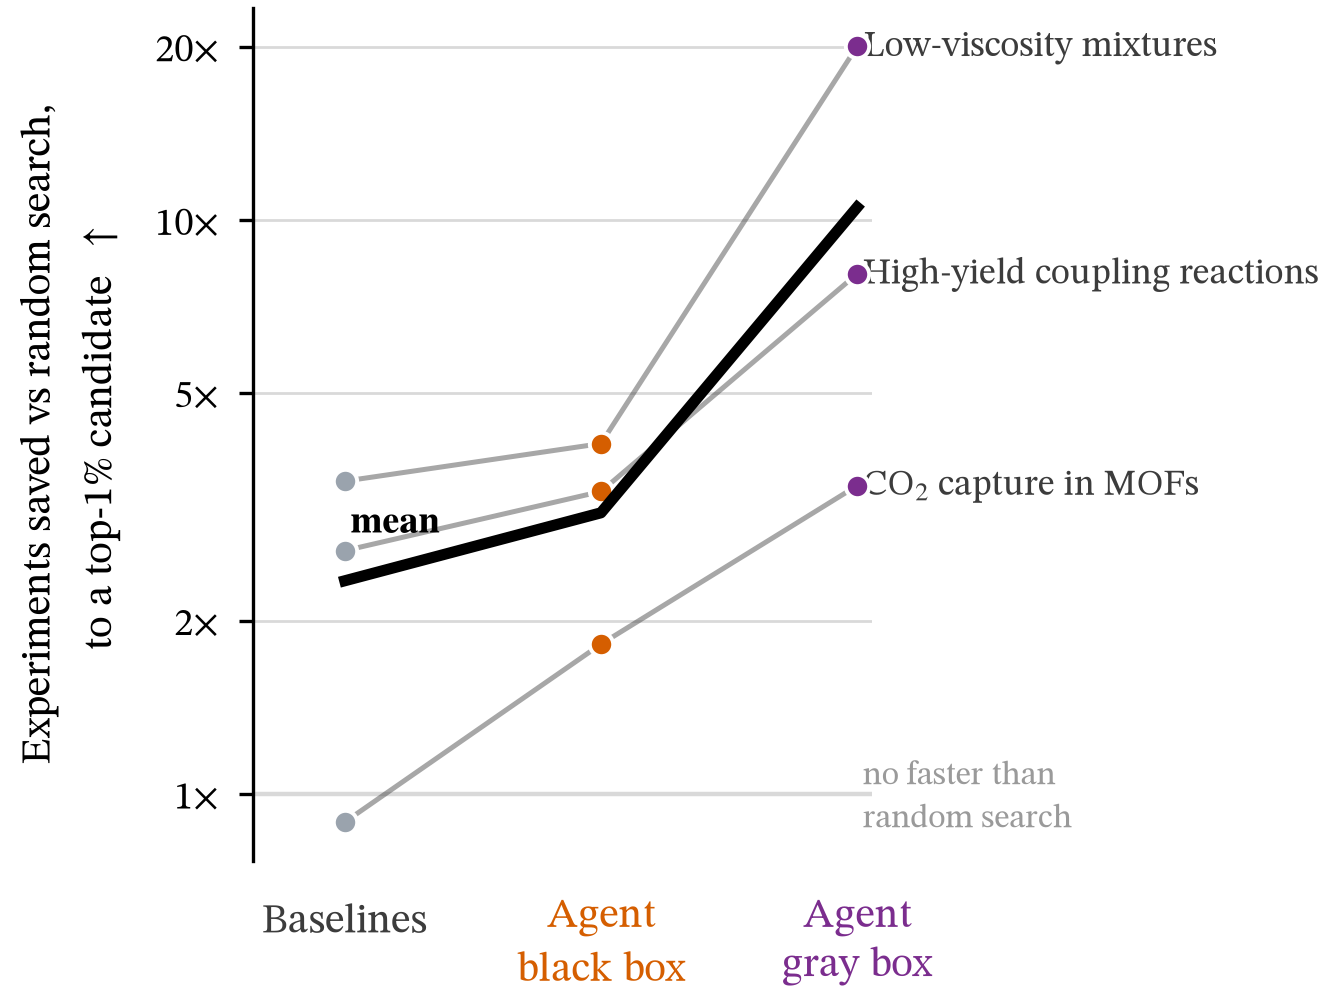
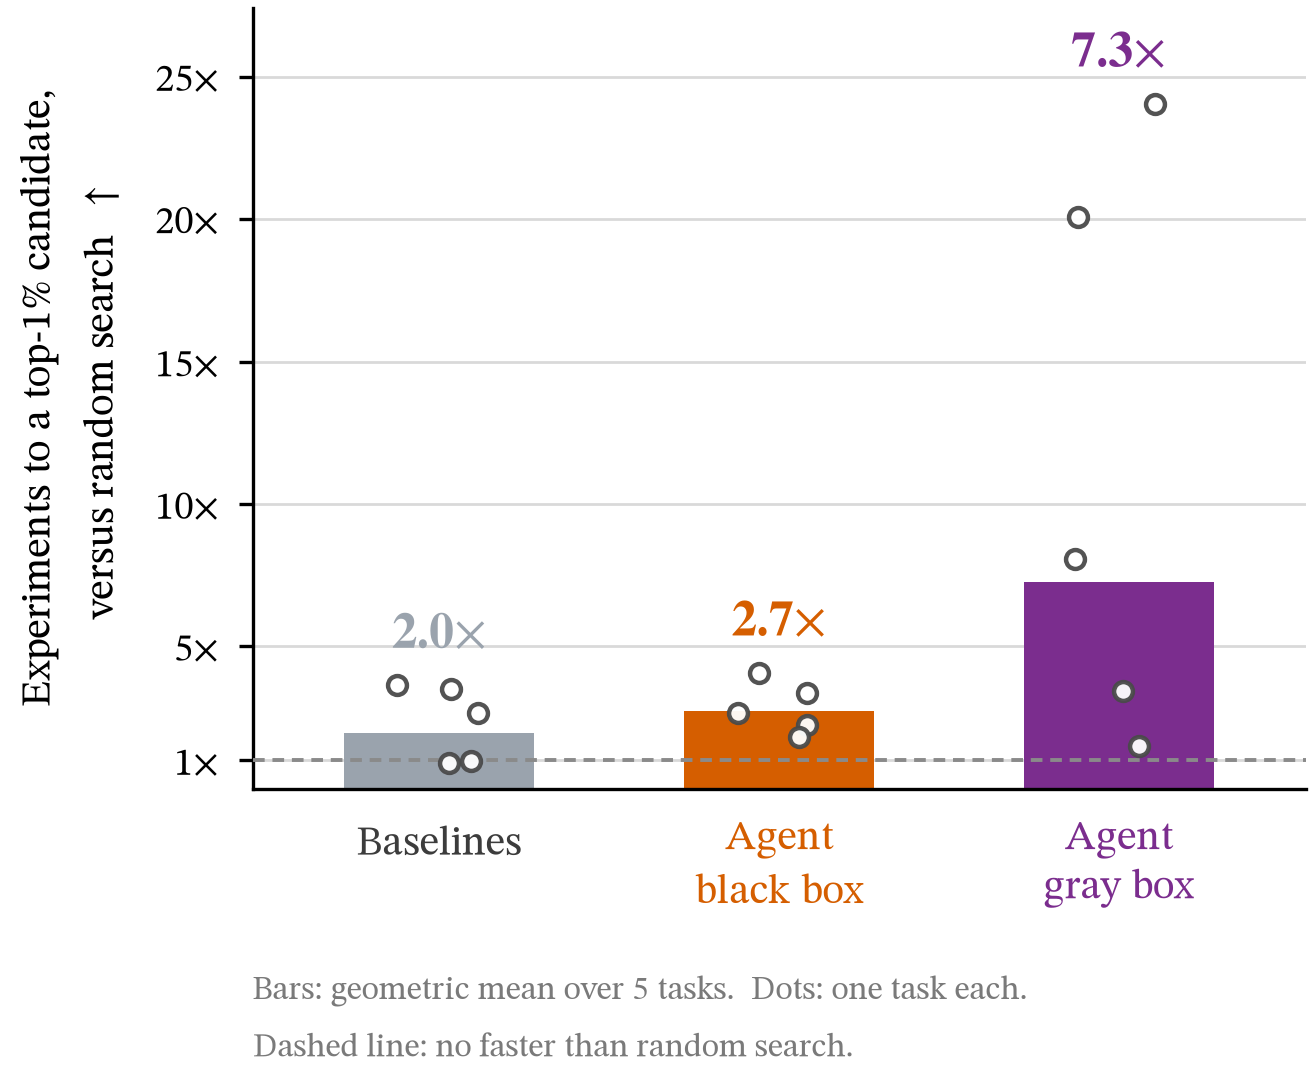
Figure 4a: three bars, and every task back on the panel
The slope chart carried all five tasks but crossed twice, and cutting it to
three tasks to clear the crossings left it bare and took the one task where
the gray box loses off the chart. Bars of the three arms hold the whole set
without either problem.

These bars are levels, not differences. What made the original panel unreadable
was that it plotted each arm's margin over two comparators, so neither arm
appeared as a level anywhere and the only available reading was one bar against
the other. A bar per arm puts the ordering on the page directly.

Each bar is the geometric mean of the acceleration factor -- the right average
for a ratio, where 2x and 8x average to 4x rather than 5x. Every task is drawn
as a dot on its arm's bar, so the spread behind each average is visible,
including the two tasks where the best baseline is no faster than random search
and the one where the gray box trails the black box. The dots are one ink:
which task is which is not this panel's claim, and the caption can name the
exception.

Baselines 2.0x, black box 2.7x, gray box 7.3x, over five tasks.

diff --git a/benchmark/src/aobench/fig4.py b/benchmark/src/aobench/fig4.py
@@ -37,18 +37,14 @@ import matplotlib.pyplot as plt  # noqa: E402
 from .figures import STYLE, WIDTH  # noqa: E402
 
 TOP_PCT = 1.0
-# Three of the six tasks that carry all three arms. The other three are left out, and the
-# reasons differ -- rct_2 cannot be measured this way, the last two were a drawing decision:
-#   rct_2  multiobjective, so there is no single label column to take a percentile of.
-#   sup    27.1x for the gray box, the widest result here, dropped to thin the panel.
-#   btch   the batch protocol, and the one task where the gray box loses to the black box
-#          (1.5x against 2.7x). Dropping it takes the only exception off the chart, so the
-#          ordering reads as unbroken when in the full set it is not. Say so in the caption.
-# benchmark/graybox/pool/ keeps the labels for all five, so any of them can come back.
+# Every task that carries all three arms. rct_2 is the one exclusion: it is multiobjective,
+# so it has no single label column to take a percentile of.
 TASKS = {
     "mix_1": ("Low-viscosity mixtures", "min"),
+    "sup": ("High-temp. superconductors", "max"),
     "mat_5": ("CO$_2$ capture in MOFs", "max"),
     "rct_1": ("High-yield coupling reactions", "max"),
+    "btch": ("Methane coupling catalysts", "max"),
 }
 REFERENCE = ["pool_random", "batch_random"]  # what the acceleration is measured against
 ARMS = {
@@ -111,67 +107,54 @@ def collect(results: Path, pool: Path):
     return data, raw
 
 
-def spread(ys, gap):
-    """Nudge labels apart, keeping their order, so two close tasks stay readable."""
-    order = sorted(range(len(ys)), key=lambda i: ys[i])
-    out = list(ys)
-    for a, b in zip(order, order[1:]):
-        if out[b] - out[a] < gap:
-            out[b] = out[a] + gap
-    shift = max(0.0, max(out) - 0.96)
-    return [v - shift for v in out]
+def geomean(xs):
+    """The right average for a ratio: 2x then 8x averages to 4x, not 5x."""
+    return float(np.exp(np.mean(np.log(list(xs)))))
 
 
 def draw(data, out: Path):
     keys = list(ARMS)
-    x = range(len(keys))
-    fig, ax = plt.subplots(figsize=(WIDTH * 0.56, 2.7))
+    fig, ax = plt.subplots(figsize=(WIDTH * 0.50, 2.75))
 
-    ax.axhline(1.0, color=RULE, lw=0.8, zorder=1)
+    bars = [geomean(row[a] for row in data.values()) for a in keys]
+    ax.bar(range(len(keys)), bars, width=0.56, color=[ARMS[a][1] for a in keys], zorder=2)
+    top = max(row[a] for row in data.values() for a in keys)
 
-    # No error bars: each task's would sit at the same three x positions, and five overlapping
-    # would read as one column per arm -- a bar, the reading this panel exists to avoid.
-    for task, row in data.items():
-        ax.plot(x, [row[a] for a in keys], "-", color=INK, lw=0.9, alpha=0.45, zorder=2,
-                clip_on=False)
+    # One dot per task on each bar, so the whole set is on the page and the spread behind each
+    # average is visible. The dots are one ink: which task is which is not this panel's claim.
+    rng = np.random.default_rng(0)
+    for row in data.values():
         for i, a in enumerate(keys):
-            ax.plot([i], [row[a]], "o", ms=4.2, color=ARMS[a][1], mec="white", mew=0.7, zorder=4,
-                    clip_on=False)
+            ax.plot([i + rng.uniform(-0.13, 0.13)], [row[a]], "o", ms=3.4, mfc="white",
+                    mec="#4A4A4A", mew=0.8, zorder=4, alpha=0.95)
 
-    mean = [statistics.mean(row[a] for row in data.values()) for a in keys]
-    ax.plot(x, mean, "-", color="black", lw=2.0, zorder=5, clip_on=False)
-    ax.annotate("mean", (0, mean[0]), textcoords="offset points", xytext=(1, 7), ha="left",
-                va="bottom", fontsize=6.8, color="black", fontfamily="STIXGeneral",
-                fontweight="bold")
+    ax.axhline(1.0, color="#8A8A8A", lw=0.7, ls=(0, (3, 2)), zorder=3)
+    # Each column's number goes above everything in that column, clear of its own dots.
+    for i, v in enumerate(bars):
+        high = max(row[keys[i]] for row in data.values())
+        ax.text(i, high + top * 0.035, f"{v:.1f}$\\times$", ha="center", va="bottom",
+                fontsize=9, color=ARMS[keys[i]][1], fontfamily="STIXGeneral", fontweight="bold")
 
-    ax.set_yscale("log")
-    ax.autoscale_view()
-    tasks = list(data)
-    to_ax = lambda v: ax.transAxes.inverted().transform(ax.transData.transform((0, v)))[1]  # noqa: E731
-    right = ax.transAxes.inverted().transform(ax.transData.transform((len(keys) - 1, 1)))[0]
-    for task, y in zip(tasks, spread([to_ax(data[t][keys[-1]]) for t in tasks], 0.085)):
-        ax.text(right + 0.03, y, TASKS[task][0], ha="left", va="center", fontsize=6.6, color=INK,
-                transform=ax.transAxes)
-    ax.text(right + 0.03, to_ax(1.0), "no faster than\nrandom search", ha="left", va="center",
-            fontsize=6, color="#9A9A9A", linespacing=1.3, transform=ax.transAxes)
-
-    ax.set_ylabel(f"Experiments saved vs random search,\nto a top-{TOP_PCT:g}% candidate  "
+    ax.set_ylabel(f"Experiments to a top-{TOP_PCT:g}% candidate,\nversus random search  "
                   r"$\uparrow$", fontsize=7.5, linespacing=1.5)
-    ax.set_yticks([1, 2, 5, 10, 20])
-    ax.set_yticklabels(["1$\\times$", "2$\\times$", "5$\\times$", "10$\\times$", "20$\\times$"])
-    ax.minorticks_off()
-    ax.set_xticks(list(x))
+    ax.set_ylim(0, top * 1.14)
+    ax.set_yticks([1, 5, 10, 15, 20, 25])  # no 0: the spine is the zero, and it crowds the 1x
+    ax.set_yticklabels([f"{v}$\\times$" for v in (1, 5, 10, 15, 20, 25)])
+    ax.set_xticks(range(len(keys)))
     ax.set_xticklabels([ARMS[a][0] for a in keys], fontsize=7.5, linespacing=1.15)
-    for i, a in enumerate(keys):  # the tick label wears the arm's colour, so the dots need no key
+    for i, a in enumerate(keys):
         ax.get_xticklabels()[i].set_color(INK if a == "baseline" else ARMS[a][1])
-    ax.set_xlim(-0.36, len(keys) - 1 + 0.06)
-    ax.tick_params(axis="x", length=0, pad=6)
+    ax.set_xlim(-0.55, len(keys) - 0.45)
+    ax.tick_params(axis="x", length=0, pad=5)
+    ax.text(-0.55, -0.225, f"Bars: geometric mean over {len(data)} tasks.  Dots: one task each."
+            "\nDashed line: no faster than random search.", transform=ax.get_xaxis_transform(),
+            ha="left", va="top", fontsize=6, color="#7A7A7A", linespacing=1.6)
     ax.grid(axis="y", color=RULE, lw=0.5, zorder=0)
     ax.set_axisbelow(True)
-    for s in ("top", "right", "bottom"):
-        ax.spines[s].set_visible(False)
+    for sp in ("top", "right"):
+        ax.spines[sp].set_visible(False)
 
-    fig.subplots_adjust(left=0.165, right=0.575, top=0.96, bottom=0.17)
+    fig.subplots_adjust(left=0.20, right=0.98, top=0.97, bottom=0.26)
     out.parent.mkdir(parents=True, exist_ok=True)
     for ext in ("png", "pdf"):
         fig.savefig(f"{out}.{ext}", dpi=400)
